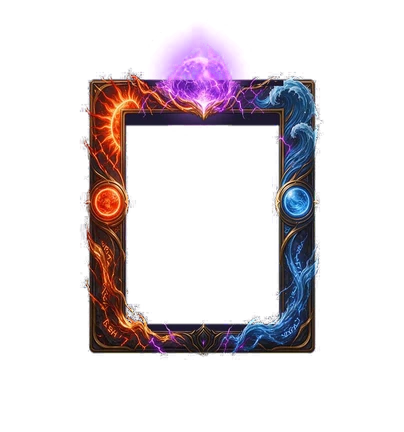
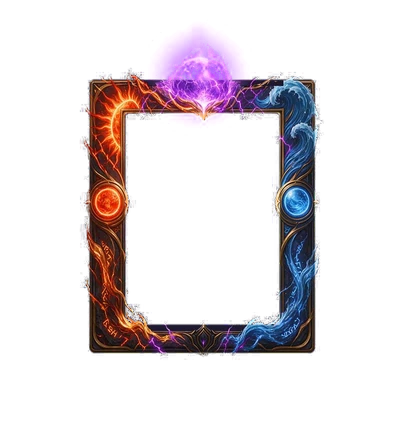
Elyndor frame: window cut to its real top edge (removes the dark bar above the art)
Claude-Session: https://claude.ai/code/session_01Cyjzuxtg1h7fdnRSeGg3CC

diff --git a/web/index.html b/web/index.html
@@ -239,7 +239,7 @@ const EL = {
   hermes:    { name: "Hermes", tier: 3, legendCard: true, art: "hermes", theme: "hermes", color: "#7ae0c8", shape: "swirl", parts: ["wind", "water"], desc: "Messenger of the gods: lightning-fast strikes leap through 8 enemies and slow them.", dmg: 34, rate: 1.3, chain: 8, slow: 0.6 },
   hephaestus:{ name: "Hephaestus", tier: 3, legendCard: true, art: "hephaestus", theme: "hephaestus", color: "#ff7a2a", shape: "rock", parts: ["fire", "earth"], desc: "God of the forge: a red-hot hammer slams an area, stunning foes and leaving molten metal pools.", dmg: 50, rate: 0.9, speed: 620, splash: 90, root: 0.7, puddle: 60, puddle_dps: 16, burn: 6 },
   nyxarion:  { name: "Nyxarion", tier: 3, divine: true, art: "nyxarion", theme: "hera", color: "#8a6aff", shape: "swirl", parts: ["dark", "water", "light"], desc: "Divine lord of night: fires black orbs wreathed in dark blue fire that curse (+30% damage taken) and slow. Every 7 s it casts a slow black hole instead: it drifts to the first enemy, then to the middle of the field, dragging every enemy it passes, and explodes for x3 damage. Night aura: the cards right next to it deal +30% damage.", dmg: 40, rate: 1.1, speed: 780, shotScale: 1.6, curse: 0.3, slow: 0.55, aura: 0.3, blackhole: true },
-  elyndor:   { name: "Elyndor", tier: 3, divine: true, art: "elyndor", frame: "elyndor_frame", win: [250, 249, 310, 400], fx: "elyndor", theme: "apollo", color: "#b070ff", shape: "spiky", parts: ["fire", "water", "light"], desc: "Divine twin of sun and moon: charges a red and a blue orb, fuses them into purple, then fires a wide green-purple laser straight up its column that destroys anything it touches. Once placed in the attack row it is bound there for 30 s.", dmg: 0, rate: 1, laser: true },
+  elyndor:   { name: "Elyndor", tier: 3, divine: true, art: "elyndor", frame: "elyndor_frame", win: [250, 226, 310, 424], fx: "elyndor", theme: "apollo", color: "#b070ff", shape: "spiky", parts: ["fire", "water", "light"], desc: "Divine twin of sun and moon: charges a red and a blue orb, fuses them into purple, then fires a wide green-purple laser straight up its column that destroys anything it touches. Once placed in the attack row it is bound there for 30 s.", dmg: 0, rate: 1, laser: true },
   hera:      { name: "Hera", tier: 3, legendCard: true, art: "hera", theme: "hera", color: "#d68aff", shape: "swirl", parts: ["water", "light"], desc: "Queen of the gods: a peacock feather bursts over a wide area and marks foes (+15% damage taken). Royal aura: the cards right next to her deal +25% damage.", dmg: 38, rate: 1.0, speed: 760, splash: 130, curse: 0.15, aura: 0.25 },
   kitsune:   { name: "Kitsune", tier: 3, myth: true, art: "kitsune", medal: [168, 93, 170], color: "#ff4a6a", shape: "flame", parts: ["fire"], desc: "Nine-tailed fox: gathers power from thin air, then fires a fox-fire blast that bursts over a wide area.", dmg: 400 / 1.5 * 3, rate: (1 / 16) / RARITY_RATE[4], speed: 760, splash: 115, gather: 5, gatherRest: 11, shotScale: 4 },
   fenrir:    { name: "Fenrir", tier: 3, myth: true, art: "fenrir", medal: [150, 122, 200], color: "#7fd8ff", shape: "spiky", parts: ["wind"], desc: "Storm wolf: its lightning shot leaves an unseen field where lightning claws keep slashing and slowing every enemy inside.", dmg: 30, rate: 0.6 / RARITY_RATE[4], speed: 950, shotScale: 1.5, scratch: 95, scratch_dps: 14, scratch_slow: 0.5, scratch_time: 3 },

diff --git a/CLAUDE.md b/CLAUDE.md
@@ -72,7 +72,7 @@ The game is live and in active development (the old "wait for go" rule no longer
 - Performance checks: Playwright + CDP `Emulation.setCPUThrottlingRate` 4x to imitate a cheap phone (headless has no GPU, so numbers are pessimistic). Boss fights are the heaviest scenes.
 - Other systems added in this period: Kitsune damage x3 (`dmg: 400 / 1.5 * 3`); danger red edge tint when enemies near the wall + DANGER sign above the wall on castle hits + `danger_alarm` sound (`drawDanger`, `dangerK`, `dangerHitT`); quick call bonus; reroll x1.4 per stage; special boss every 10th wave (`DRAGON_EVERY` 10, rotation bag of Dragon/Kraken/Soul Eater); game over now clears spell/panels (`gameOver`).
 - Leaderboards (2026-11-23, Google Play Games, Android only): `PlayGamesBridge.java` (`play-services-games-v2` 21.0.0) exposes `window.AndroidGames` (`available`, `submit(key, score)`, `show()` = Google's all-leaderboards screen, signs in first if needed). IDs go in `res/values/strings.xml` (`game_services_project_id`, `leaderboard_best_wave`, `leaderboard_boss_break_out`); while they're empty, Play Games is never set up and the app runs as before. Boards: `wave` = waves cleared in a normal run (not Daily Challenge or training), `boss` = Boss Break Out kills; submitted in `gameOver` and the saved bests are resubmitted on sign-in (`onGamesReady`). Lobby button `btn.leaderboard` (left column, y 640; Beginner Deal moved to y 800), `drawLeaderboardIcon`; on the web it shows "Android app only". The user still has to set up Play Games Services in Play Console and send the IDs. Not compiled or tested on a device yet.
-- Divine tier (2026-11-23): rarity `DIVINE` = 7 (above Legend; `RARITY_*` arrays have an 8th entry: dmg x16, rate x1.6, colour #6fe8ff; no stars). Only one of each Divine card at a time: ascending a recipe for a Divine card already on the board (active/storage/altar) is refused like a wrong recipe and the offered cards are lost (`fusion.dup`, "You already have X. Only one of each Divine card!"). Divine cards are `divine: true` in `EL` (kept out of drops, summons and Epic lists), drawn by `Card.drawDivineCard`: art clipped to the art window, then the user's black-hole frame `assets/img/divine_frame.webp` (a single still picture since 2026-11-23, the user didn't want the animated sheet: their static divine_frame.png 808x864 stored at half size 404x432; card area 448x544 at (180,160), art window (247,230) 315x407 in full-size px), "DIVINE" label + name inside the window. Code-drawn extras around the frame (off in Low settings): `divineBack` (turning dark vortex behind the card, purple shadow-flame crown on the top edge) and `divineFront` (event-horizon glow + lensing ring + spiralling specks on the frame's black hole at art px (576,231), two energy streaks racing round the border, occasional purple lightning between corners, 5 runes orbiting the card). Made only at the Divine Altar: battle button `btn.altar` (next to Spell, always plain lilac: no "recipe ready" hint, the user wants players to discover recipes themselves), a mode of the Chamber (`altarMode`, `openAltar`, `drawAltar`, `fuseAltar` reusing the Chamber fusion animation with `fusion.divine`). Its own row `rows.altar` has 10 slots on a spinning 3D ring around a globe (`altarSlot(i)` gives x/y/depth/scale from `altarRot`; swipe on the ring (`altarSpin`), the arrow buttons `altarL`/`altarR` or the mouse wheel turn it, snapping to `altarRotTo`; only front-half slots take drops; altar cards are drawn by `drawAltar`, back to front, with the globe between the halves; the result lands in the front slot `altarFront()`; the hint text line is hidden while the altar is open). Altar look (`drawAltar`, `updateAltarFx`, `altarFx`): starfield + drifting nebula, light shafts, glowing frame, living globe (swirling colour, turning grid lines, crackling arcs, glyph runes `ALTAR_RUNES` drawn as line segments orbiting it), energy tethers with flowing dots from every altar card into the globe, bright front pedestal with rising motes, spin sparks, drop burst + `summon_zap`, fill bar; Ascend has its own 7.2 s "Divine Ascension" sequence (`DIV` timings, `fuseAltar`, `updateDivineFusion`, `drawDivineFusion`, `divCardPos`; `updateFusion`/`drawFusion` hand off when `fusion.divine`): offering (cards rise on light pillars, ring spins 2 full turns back to the same front slot), spiral (cards orbit into the globe with trails, dissolving into light streams), implosion (darkness, globe collapses to a point, shake builds), supernova (white flash, 4 shockwaves, starburst, god rays), reveal (card flips in from `drawCardBack`, halo, falling stars, "DIVINE ASCENSION" + name letter by letter, then it lands in the front slot). Wrong recipe: red cracks, the globe shatters into shards and ash, "The gods refused...". Sounds (ElevenLabs, 2 takes each, picked take A for the build-up (slowed x0.88 with a rising volume ramp) and take B for the reveal): `divine_combine` / `divine_result` packed in `assets/audio/divine_sounds.mp3` (`pack:`); the fail uses `summon_implode` + `dragon_die` at other pitches. Nebula, glows, motes and arcs are off in Low settings. Recipes in `DIVINE_RECIPES` ({ result, parts: [2-10 ingredients] }, order doesn't matter; an ingredient is an exact card key or a wildcard `any:<epic|myth|legend>[:<base element>]`, e.g. `any:legend`, `any:myth:dark`; `tokenMatches`, `tokenName` ("Any Dark Myth"), `recipeFits` matches exact cards first then wildcards with backtracking so each card is used once; the book's green check is `boardHasToken`, which doesn't count cards an exact ingredient of the same recipe needs): the cards on the altar must equal one recipe exactly, which always succeeds; anything else is destroyed (no warning, by the user's choice). Recipe book inside the altar shows every recipe as text only (`recipeOpen`, `drawRecipeBook`: "Black Hole + Black Hole + Banshee + Kraken + Hades" with names green when that card is on the board, then "= Nyxarion"; lines wrap for long recipes; no card images, by the user's choice). Divine damage scales with the wave (`divineScale`: max(1, `DIVINE_SCALE_K` 0.5 x sqrt(hpScale(wave))), only in battle; Nyxarion 640 per hit at wave 1, ~1,300 at 30, ~4,200 at 75, ~7,300 at 100, so typical normal enemies take ~2-4 hits around waves 70-100 (user asked for "half scaling" with 2-4 shots). First card: Nyxarion = Black Hole (Epic) x2 + Banshee + Kraken (Myths) + Hades (Legend) (since 2026-11-23; was Zeus + Hera + Kraken; the book colours each copy green only if the board has that many, `boardHasEl(el, n)`) (curse 0.3, slow, aura +30% via `heraAura`). Shots: black orb projectile (`MYTHFX.mx_nyx`, `NYX_COLS`): black core with white-hot photon ring, tilted spinning accretion disk, 3 orbiting dark motes, crackling arcs, twin helix ribbons of purple/blue fire around a dark core streak (`mxRibbon`/`mxBend`), embers, dark smoke, ring pulses; own hit = implode (rings shrink into a black dot) then purple burst + shockwave + sparks + smoke (helix/arcs off in Low settings; sounds `nyxarion_atk`/`nyxarion_hit`). Every 7 s of attack time it casts a black hole instead (`EL.nyxarion.blackhole`, `NYX_BH` {every 7, speed 110, pullR 140, pull 150, boomR 175, mult 3}, `nyxUpdate` in the card loop, `blackholes`, `updateBlackHoles`, `drawBlackHoles`, `nyxExplode`): it drifts to the closest enemy, then to the middle field (W/2, BOSS_Y + 40), dragging enemies within 140 (bosses resist, heavy enemies half), then explodes for 3x current damage in 175; normal shots pause while it exists and the 7 s timer restarts after it ends. Black hole look (`drawBlackHoles`): grows in, ground shadow + darkened space, purple haze, pull ring, tethers to the enemies being dragged, flickering polar jets, in-falling debris streaks, 5-band accretion disk split into a back half (behind the core) and front half with doppler brightness, Einstein ring + photon ring, crackling arcs. Explosion (`nyxExplode`): core collapse, screen flash, expanding sphere, 12 spinning god rays, 3 ground shockwaves, light pillar, debris chunks, smoke ring, sparks. Nyxarion sounds (ElevenLabs, 2 takes each: shot A, hit A, black hole cast B (A was near-silent), explosion A) packed in `assets/audio/nyx_sounds.mp3`: `nyxarion_atk` / `nyxarion_hit` (used automatically by `playSfx`), `nyx_bh` on cast, `nyx_boom` on explosion; art `assets/img/nyxarion.webp` = the user's 1024x1536 art (hooded dark mage), cropped x62 y10 900x1093 then resized to 448x544. Second Divine card: Elyndor = Kitsune x2 + Serpent x2 + Corona + Equinox + Apollo (`EL.elyndor`, `laser: true`, art `assets/img/elyndor.webp` = the user's 1024x1536 art (silver-haired mage, fire left hand, water right hand), cropped x32 y0 960x1166 then resized to 448x544; own frame `assets/img/elyndor_frame.webp` = the user's sun/wave/purple-orb frame (a JPG on a flat #1e1930 background: background removed with colour-to-alpha outside the card and in the window, the frame band kept solid; window `win: [250, 249, 310, 400]` in full-size px). Divine cards pick their frame with `d.frame` / `d.win` (default = the black-hole frame); the black-hole glow in `divineFront` only draws on the default frame). Each Divine card has its own frame effects (`d.fx`): Nyxarion = `divineBack`/`divineFront` (vortex, shadow-flame crown, black-hole glow, border streaks, lightning, runes); Elyndor (`fx: "elyndor"`) = `elyBack`/`elyFront` (warm left / cold right / purple top aura, sun rays and fire tongues on the left, drifting wave curls on the right, side orbs at art px (213,395)/(595,395) breathing in turn, embers and bubbles rising, a red and a blue spark racing up the borders that meet at the top orb (404,150) in a purple flash, purple bond arcs from the side orbs to the top orb; plus: turning twin halo ring (red half / blue half), a tiny sun and moon orbiting the card (`elyOrbiters`, back half behind, front half in front), star glints, red-purple-blue glowing border, a light sweep across the art every few seconds, the top orb's turning ring + upward lightning, flame motes / droplets circling the side orbs, steam and a pulsing gem at the bottom where fire meets water; everything stays within ~24 px of the card so it doesn't cover neighbours). It never targets: `updateLaser` cycle (`ELY` timings, made 2x slower on request) red orb at 2 s (left, in front of the card), blue orb at 6 s (right), they spiral into purple at 8-10 s, charge 12-14 s (converging rings, sucked-in motes, aim line), then a wide (110) green-purple laser straight up its column 14-17 s that kills every enemy it touches (hitEnemy for 3x their HP; stage bosses too; special bosses still need runes, Soul Shield still blocks), then repeats; drawn by `drawLasers` (orbs and beam have solid cores so they read on bright maps): red orb = mini sun (flickering corona rays, rising embers), blue orb = mini moon (ripples, orbiting droplets, sparkle), crackling energy arc between them; combine = they spiral around each other with red/blue helix trails and slam together (flash ring + burst, `summon_implode`); purple orb has a red/blue swirl inside and 6 orbiting runes; charge = converging streaks + rings, ground glow, flickering aim line, small inhale before firing; beam = solid body + glow + white core, twin green/purple helix, energy rings racing up, base ripple, top flare, spark spray, burst ring at fire, thins out at the end (helix/rings/streaks/embers off in Low settings). Placed in the attack row it is bound for 30 s (`ELY.lock`, was 60; `laserLocks`, `c.lockT`, `c.lockSlot`, `cardLocked`): the lock restarts every time it lands in a different attack-row slot (also when moved within the row, so it can't be slid along the row to sweep every column), the charge cycle restarts too, and `moveCard`/`chamberDrop` refuse moves from or onto a locked card: no drag, swap or sell, padlock + countdown on the card; storage doesn't lock it. Sounds (ElevenLabs, 2 takes each: sun B, moon A, fuse A, charge B, laser A) packed in `assets/audio/ely_sounds.mp3`: `ely_sun` (red orb), `ely_moon` (blue orb), `ely_fuse` (started 0.2 s before the slam so its impact lands on it), `ely_charge`, `ely_laser`. Mirror doesn't copy it. Hidden in training. Card library (lobby Cards page, `CARD_GROUPS`) has a "Divine Cards" group between Legend and Special (`DIVINE_ELS`; no levels: shows "Divine / Made at the Altar", unknown ones say "Ascend at the Altar"); the TEST picker (`TEST_GROUPS`, `testRarity`) has a "Divine" group too.
+- Divine tier (2026-11-23): rarity `DIVINE` = 7 (above Legend; `RARITY_*` arrays have an 8th entry: dmg x16, rate x1.6, colour #6fe8ff; no stars). Only one of each Divine card at a time: ascending a recipe for a Divine card already on the board (active/storage/altar) is refused like a wrong recipe and the offered cards are lost (`fusion.dup`, "You already have X. Only one of each Divine card!"). Divine cards are `divine: true` in `EL` (kept out of drops, summons and Epic lists), drawn by `Card.drawDivineCard`: art clipped to the art window, then the user's black-hole frame `assets/img/divine_frame.webp` (a single still picture since 2026-11-23, the user didn't want the animated sheet: their static divine_frame.png 808x864 stored at half size 404x432; card area 448x544 at (180,160), art window (247,230) 315x407 in full-size px), "DIVINE" label + name inside the window. Code-drawn extras around the frame (off in Low settings): `divineBack` (turning dark vortex behind the card, purple shadow-flame crown on the top edge) and `divineFront` (event-horizon glow + lensing ring + spiralling specks on the frame's black hole at art px (576,231), two energy streaks racing round the border, occasional purple lightning between corners, 5 runes orbiting the card). Made only at the Divine Altar: battle button `btn.altar` (next to Spell, always plain lilac: no "recipe ready" hint, the user wants players to discover recipes themselves), a mode of the Chamber (`altarMode`, `openAltar`, `drawAltar`, `fuseAltar` reusing the Chamber fusion animation with `fusion.divine`). Its own row `rows.altar` has 10 slots on a spinning 3D ring around a globe (`altarSlot(i)` gives x/y/depth/scale from `altarRot`; swipe on the ring (`altarSpin`), the arrow buttons `altarL`/`altarR` or the mouse wheel turn it, snapping to `altarRotTo`; only front-half slots take drops; altar cards are drawn by `drawAltar`, back to front, with the globe between the halves; the result lands in the front slot `altarFront()`; the hint text line is hidden while the altar is open). Altar look (`drawAltar`, `updateAltarFx`, `altarFx`): starfield + drifting nebula, light shafts, glowing frame, living globe (swirling colour, turning grid lines, crackling arcs, glyph runes `ALTAR_RUNES` drawn as line segments orbiting it), energy tethers with flowing dots from every altar card into the globe, bright front pedestal with rising motes, spin sparks, drop burst + `summon_zap`, fill bar; Ascend has its own 7.2 s "Divine Ascension" sequence (`DIV` timings, `fuseAltar`, `updateDivineFusion`, `drawDivineFusion`, `divCardPos`; `updateFusion`/`drawFusion` hand off when `fusion.divine`): offering (cards rise on light pillars, ring spins 2 full turns back to the same front slot), spiral (cards orbit into the globe with trails, dissolving into light streams), implosion (darkness, globe collapses to a point, shake builds), supernova (white flash, 4 shockwaves, starburst, god rays), reveal (card flips in from `drawCardBack`, halo, falling stars, "DIVINE ASCENSION" + name letter by letter, then it lands in the front slot). Wrong recipe: red cracks, the globe shatters into shards and ash, "The gods refused...". Sounds (ElevenLabs, 2 takes each, picked take A for the build-up (slowed x0.88 with a rising volume ramp) and take B for the reveal): `divine_combine` / `divine_result` packed in `assets/audio/divine_sounds.mp3` (`pack:`); the fail uses `summon_implode` + `dragon_die` at other pitches. Nebula, glows, motes and arcs are off in Low settings. Recipes in `DIVINE_RECIPES` ({ result, parts: [2-10 ingredients] }, order doesn't matter; an ingredient is an exact card key or a wildcard `any:<epic|myth|legend>[:<base element>]`, e.g. `any:legend`, `any:myth:dark`; `tokenMatches`, `tokenName` ("Any Dark Myth"), `recipeFits` matches exact cards first then wildcards with backtracking so each card is used once; the book's green check is `boardHasToken`, which doesn't count cards an exact ingredient of the same recipe needs): the cards on the altar must equal one recipe exactly, which always succeeds; anything else is destroyed (no warning, by the user's choice). Recipe book inside the altar shows every recipe as text only (`recipeOpen`, `drawRecipeBook`: "Black Hole + Black Hole + Banshee + Kraken + Hades" with names green when that card is on the board, then "= Nyxarion"; lines wrap for long recipes; no card images, by the user's choice). Divine damage scales with the wave (`divineScale`: max(1, `DIVINE_SCALE_K` 0.5 x sqrt(hpScale(wave))), only in battle; Nyxarion 640 per hit at wave 1, ~1,300 at 30, ~4,200 at 75, ~7,300 at 100, so typical normal enemies take ~2-4 hits around waves 70-100 (user asked for "half scaling" with 2-4 shots). First card: Nyxarion = Black Hole (Epic) x2 + Banshee + Kraken (Myths) + Hades (Legend) (since 2026-11-23; was Zeus + Hera + Kraken; the book colours each copy green only if the board has that many, `boardHasEl(el, n)`) (curse 0.3, slow, aura +30% via `heraAura`). Shots: black orb projectile (`MYTHFX.mx_nyx`, `NYX_COLS`): black core with white-hot photon ring, tilted spinning accretion disk, 3 orbiting dark motes, crackling arcs, twin helix ribbons of purple/blue fire around a dark core streak (`mxRibbon`/`mxBend`), embers, dark smoke, ring pulses; own hit = implode (rings shrink into a black dot) then purple burst + shockwave + sparks + smoke (helix/arcs off in Low settings; sounds `nyxarion_atk`/`nyxarion_hit`). Every 7 s of attack time it casts a black hole instead (`EL.nyxarion.blackhole`, `NYX_BH` {every 7, speed 110, pullR 140, pull 150, boomR 175, mult 3}, `nyxUpdate` in the card loop, `blackholes`, `updateBlackHoles`, `drawBlackHoles`, `nyxExplode`): it drifts to the closest enemy, then to the middle field (W/2, BOSS_Y + 40), dragging enemies within 140 (bosses resist, heavy enemies half), then explodes for 3x current damage in 175; normal shots pause while it exists and the 7 s timer restarts after it ends. Black hole look (`drawBlackHoles`): grows in, ground shadow + darkened space, purple haze, pull ring, tethers to the enemies being dragged, flickering polar jets, in-falling debris streaks, 5-band accretion disk split into a back half (behind the core) and front half with doppler brightness, Einstein ring + photon ring, crackling arcs. Explosion (`nyxExplode`): core collapse, screen flash, expanding sphere, 12 spinning god rays, 3 ground shockwaves, light pillar, debris chunks, smoke ring, sparks. Nyxarion sounds (ElevenLabs, 2 takes each: shot A, hit A, black hole cast B (A was near-silent), explosion A) packed in `assets/audio/nyx_sounds.mp3`: `nyxarion_atk` / `nyxarion_hit` (used automatically by `playSfx`), `nyx_bh` on cast, `nyx_boom` on explosion; art `assets/img/nyxarion.webp` = the user's 1024x1536 art (hooded dark mage), cropped x62 y10 900x1093 then resized to 448x544. Second Divine card: Elyndor = Kitsune x2 + Serpent x2 + Corona + Equinox + Apollo (`EL.elyndor`, `laser: true`, art `assets/img/elyndor.webp` = the user's 1024x1536 art (silver-haired mage, fire left hand, water right hand), cropped x32 y0 960x1166 then resized to 448x544; own frame `assets/img/elyndor_frame.webp` = the user's sun/wave/purple-orb frame (a JPG on a flat #1e1930 background: background removed with colour-to-alpha outside the card and in the window, the frame band kept solid; window `win: [250, 226, 310, 424]` in full-size px; the real window top is ~y 225, not 248 as first measured at the orb ornament, which had left a dark bar). Divine cards pick their frame with `d.frame` / `d.win` (default = the black-hole frame); the black-hole glow in `divineFront` only draws on the default frame). Each Divine card has its own frame effects (`d.fx`): Nyxarion = `divineBack`/`divineFront` (vortex, shadow-flame crown, black-hole glow, border streaks, lightning, runes); Elyndor (`fx: "elyndor"`) = `elyBack`/`elyFront` (warm left / cold right / purple top aura, sun rays and fire tongues on the left, drifting wave curls on the right, side orbs at art px (213,395)/(595,395) breathing in turn, embers and bubbles rising, a red and a blue spark racing up the borders that meet at the top orb (404,150) in a purple flash, purple bond arcs from the side orbs to the top orb; plus: turning twin halo ring (red half / blue half), a tiny sun and moon orbiting the card (`elyOrbiters`, back half behind, front half in front), star glints, red-purple-blue glowing border, a light sweep across the art every few seconds, the top orb's turning ring + upward lightning, flame motes / droplets circling the side orbs, steam and a pulsing gem at the bottom where fire meets water; everything stays within ~24 px of the card so it doesn't cover neighbours). It never targets: `updateLaser` cycle (`ELY` timings, made 2x slower on request) red orb at 2 s (left, in front of the card), blue orb at 6 s (right), they spiral into purple at 8-10 s, charge 12-14 s (converging rings, sucked-in motes, aim line), then a wide (110) green-purple laser straight up its column 14-17 s that kills every enemy it touches (hitEnemy for 3x their HP; stage bosses too; special bosses still need runes, Soul Shield still blocks), then repeats; drawn by `drawLasers` (orbs and beam have solid cores so they read on bright maps): red orb = mini sun (flickering corona rays, rising embers), blue orb = mini moon (ripples, orbiting droplets, sparkle), crackling energy arc between them; combine = they spiral around each other with red/blue helix trails and slam together (flash ring + burst, `summon_implode`); purple orb has a red/blue swirl inside and 6 orbiting runes; charge = converging streaks + rings, ground glow, flickering aim line, small inhale before firing; beam = solid body + glow + white core, twin green/purple helix, energy rings racing up, base ripple, top flare, spark spray, burst ring at fire, thins out at the end (helix/rings/streaks/embers off in Low settings). Placed in the attack row it is bound for 30 s (`ELY.lock`, was 60; `laserLocks`, `c.lockT`, `c.lockSlot`, `cardLocked`): the lock restarts every time it lands in a different attack-row slot (also when moved within the row, so it can't be slid along the row to sweep every column), the charge cycle restarts too, and `moveCard`/`chamberDrop` refuse moves from or onto a locked card: no drag, swap or sell, padlock + countdown on the card; storage doesn't lock it. Sounds (ElevenLabs, 2 takes each: sun B, moon A, fuse A, charge B, laser A) packed in `assets/audio/ely_sounds.mp3`: `ely_sun` (red orb), `ely_moon` (blue orb), `ely_fuse` (started 0.2 s before the slam so its impact lands on it), `ely_charge`, `ely_laser`. Mirror doesn't copy it. Hidden in training. Card library (lobby Cards page, `CARD_GROUPS`) has a "Divine Cards" group between Legend and Special (`DIVINE_ELS`; no levels: shows "Divine / Made at the Altar", unknown ones say "Ascend at the Altar"); the TEST picker (`TEST_GROUPS`, `testRarity`) has a "Divine" group too.
 - Performance (2026-11-23): Legend/Myth orbit trails use `ORBITS`, cached ring `Path2D`s (`orbitRing`), shared buffers (`trailPts`) and pre-built colours (`trailStyles`), pixel-identical to before, about 13% less game-code time at wave 71. Enemies: with more than `CROWD_FREEZE` (40) on screen (`ENEMY_CROWD`) or on `liteBattle()`, each body is one cached still picture (`layer("lite")`) that still hops; about 55-60% less enemy drawing (51 enemies: ~9 ms -> ~3.7 ms on desktop). Profiling tools used: Playwright + CDP Profiler at wave 71 with stacked waves (see the transcript of this session); card pixel check by drawing cards at fixed `t` with a seeded `Math.random`.
 - Ideas discussed but NOT built (ask before doing): Golem special boss (user plans sprites; add to `SPECIAL_BOSSES`), animated battlefield art per map (user may draw it: 1080x1800 px WebP, anchored to the bottom/castle wall, keep the middle path plain; small moving parts as 128-256 px sprite sheets, load only the current map, still image on Low settings), Google Play Games cloud save (recommended before release), Firebase login for web, local currency (Rp) in the shop, version bump to 1.2.0 (loading screen still says v1.0), unlocking buttons gradually for new players, failed-fusion refund/pity.
 - Before any store release: set `TESTER_RESET` false, bump version/versionCode, test a real purchase, create the Play products, cloud save, store listing, privacy policy, data safety, content rating, closed test (12+ testers, 14 days for new personal accounts).
